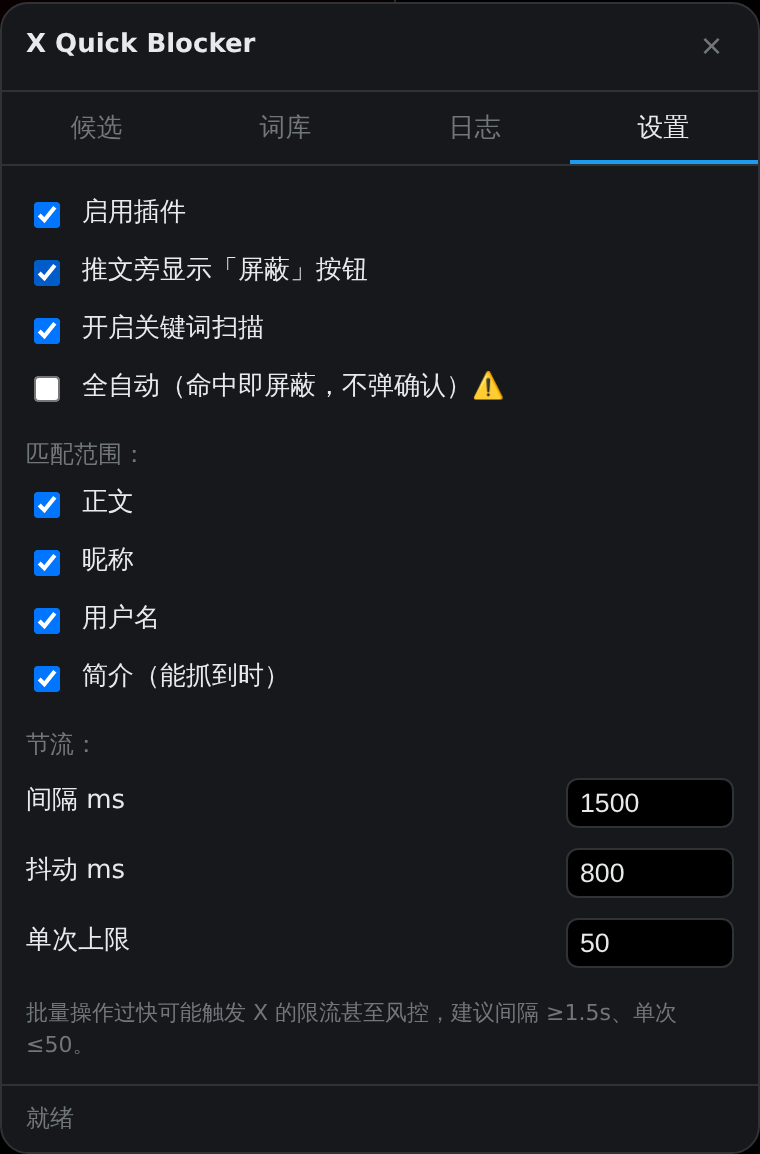
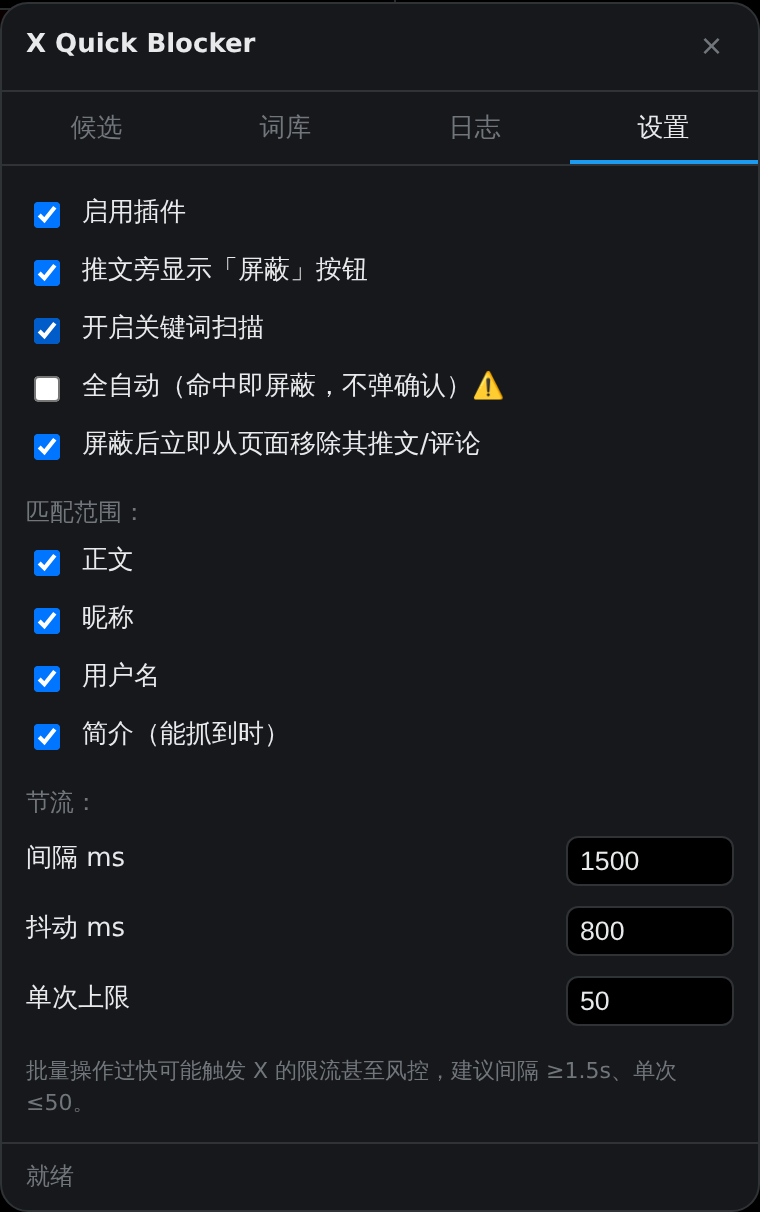
fix: 批量只成功一个；屏蔽后立即移除该作者的推文/评论
三个问题：

1. runBatch 没有 finally。循环体里任何一处抛错（包括面板刷新）都会让
   running 永久停在 true，之后再点「屏蔽已勾选」直接 return —— 表现就是
   「只成功一个，然后再也点不动」。现在整个循环包在 try/finally 里，
   running / setRunUI 一定会复位；面板刷新单独 try/catch，不中断批量。

2. 限流分支 continue 到了下一个账号，被 429 的那个既没屏蔽也没计入失败，
   静默丢失。改为对当前账号指数退避重试（最多 3 次），仍失败才计入 fail。

3. 屏蔽成功后不移除 DOM。X 不会刷新已渲染的节点，评论区尤其明显，
   用户无法判断是否屏蔽成功。新增 removeByHandle()：单条按钮和批量成功后
   都立即移除该作者的推文/评论（优先移除外层 cellInnerDiv，避免留空壳），
   scanAll 里再兜一次，处理虚拟列表回收复用把节点渲染回来的情况。
   新增配置项 removeBlockedDom（默认开），设置页可关。

另外 callBlock 失败时带上响应体片段和 console.warn，只剩一个状态码没法排查。

回归验证（smoke/regress.mjs）：单条屏蔽后 DOM 4→3；批量序列显示 429 的账号
被重试而非跳过；403 计入失败并在状态栏显示原因；批量结束后按钮正常解禁。

版本 0.1.3 → 0.1.4

Claude-Session: https://claude.ai/code/session_015zcd6DUqSjjwxXHhqpBqkB

diff --git a/src/content.js b/src/content.js
@@ -20,6 +20,7 @@
     minDelayMs: 1500,            // 每次屏蔽之间的间隔
     jitterMs: 800,
     maxPerRun: 50,               // 单次批量上限
+    removeBlockedDom: true,      // 屏蔽成功后把该作者的推文/评论从当前页面移除
     logLimit: 500,
   };
 
@@ -199,11 +200,16 @@
     if (res.status === 429) throw new RateLimited('触发接口限流（429）');
     const txt = await res.text();
     if (!res.ok) {
-      let msg = `${res.status}`;
+      let msg = `HTTP ${res.status}`;
       try {
         const j = JSON.parse(txt);
         if (j.errors && j.errors[0]) msg = `${j.errors[0].code || res.status}: ${j.errors[0].message}`;
-      } catch (e) {}
+      } catch (e) {
+        // 不是 JSON（可能是 HTML 错误页）：带上片段，否则只剩状态码没法排查
+        const snip = String(txt || '').replace(/\s+/g, ' ').slice(0, 120);
+        if (snip) msg += ` — ${snip}`;
+      }
+      console.warn('[xqb] blocks 接口失败', res.status, body, String(txt || '').slice(0, 300));
       throw new Error(msg);
     }
     return true;
@@ -313,7 +319,15 @@
         b.classList.add('xqb-done');
         blockedThisSession.add(info.handle.toLowerCase());
         pushLog({ handle: info.handle, name: info.name, reason: '手动', ok: true, url: info.url });
-        toast(`已屏蔽 @${info.handle}`);
+        candidates.delete(info.handle.toLowerCase());
+        renderCandidates();
+        updateBadge();
+        if (cfg.removeBlockedDom) {
+          const n = removeByHandle(info.handle);
+          toast(`已屏蔽 @${info.handle}${n > 1 ? `，移除 ${n} 条` : ''}`);
+        } else {
+          toast(`已屏蔽 @${info.handle}`);
+        }
       } catch (err) {
         b.textContent = '失败';
         b.classList.add('xqb-fail');
@@ -361,7 +375,31 @@
     }
   }
 
+  // 屏蔽成功后把该作者在当前页面上的所有推文/评论移除。
+  // X 不会自己刷新已渲染的节点，评论区尤其明显——留在那里没法判断到底成没成。
+  // 优先移除外层的 cellInnerDiv，否则会留下一个空壳占位。
+  function removeByHandle(handle) {
+    const key = String(handle || '').toLowerCase();
+    if (!key) return 0;
+    let n = 0;
+    document.querySelectorAll('article[data-testid="tweet"]').forEach((a) => {
+      let hk = (a.dataset.xqbHandle || '').toLowerCase();
+      if (!hk) {
+        try { hk = (tweetInfo(a).handle || '').toLowerCase(); } catch (e) {}
+      }
+      if (hk !== key) return;
+      const node = a.closest('[data-testid="cellInnerDiv"]') || a;
+      node.remove();
+      n++;
+    });
+    return n;
+  }
+
   function scanAll() {
+    // 已屏蔽的账号如果被 X 重新渲染回来（切 Tab、虚拟列表回收复用），再清一次
+    if (cfg.removeBlockedDom && blockedThisSession.size) {
+      for (const hk of blockedThisSession) removeByHandle(hk);
+    }
     document.querySelectorAll('article[data-testid="tweet"]').forEach(decorate);
   }
 
@@ -378,39 +416,69 @@
     running = true;
     stopFlag = false;
     let backoff = 0;
-    let done = 0, fail = 0;
+    let done = 0, fail = 0, lastErr = '';
     setRunUI(true);
-    for (const c of list) {
-      if (stopFlag) break;
-      if (done + fail >= cfg.maxPerRun) { toast(`已达单次上限 ${cfg.maxPerRun}，停止`); break; }
-      try {
-        await blockUser(c.handle);
-        done++;
-        blockedThisSession.add(c.handle.toLowerCase());
-        candidates.delete(c.handle.toLowerCase());
-        pushLog({ handle: c.handle, name: c.name, reason: c.hit ? `命中「${c.hit}」` : '批量', ok: true, url: c.url });
-        backoff = 0;
-      } catch (err) {
-        if (err instanceof RateLimited) {
-          backoff = backoff ? Math.min(backoff * 2, 15 * 60_000) : 60_000;
-          toast(`触发限流，暂停 ${Math.round(backoff / 1000)}s 后继续`, true);
-          setStatus(`限流退避中… ${Math.round(backoff / 1000)}s`);
-          await sleep(backoff);
+    // 整个循环包在 try/finally 里。原来没有 finally：循环体里任何一处抛错
+    // （包括面板刷新）都会让 running 永久停在 true，之后再点按钮直接 return，
+    // 表现就是「只成功一个，然后再也点不动」。
+    try {
+      for (let i = 0; i < list.length; i++) {
+        const c = list[i];
+        if (stopFlag) break;
+        if (done + fail >= cfg.maxPerRun) { toast(`已达单次上限 ${cfg.maxPerRun}，停止`); break; }
+
+        let rlRetry = 0;
+        for (;;) {
           if (stopFlag) break;
-          continue;
+          try {
+            await blockUser(c.handle);
+            done++;
+            backoff = 0;
+            blockedThisSession.add(c.handle.toLowerCase());
+            candidates.delete(c.handle.toLowerCase());
+            if (cfg.removeBlockedDom) removeByHandle(c.handle);
+            pushLog({ handle: c.handle, name: c.name, reason: c.hit ? `命中「${c.hit}」` : '批量', ok: true, url: c.url });
+            break;
+          } catch (err) {
+            // 限流：重试「当前这个」，最多 3 次。原实现是 continue 到下一个，
+            // 被限流的账号既没屏蔽也没计入失败，静默丢失。
+            if (err instanceof RateLimited && rlRetry < 3) {
+              rlRetry++;
+              backoff = backoff ? Math.min(backoff * 2, 15 * 60_000) : 60_000;
+              toast(`触发限流，暂停 ${Math.round(backoff / 1000)}s 后重试 @${c.handle}`, true);
+              setStatus(`限流退避中… ${Math.round(backoff / 1000)}s（第 ${rlRetry} 次重试 @${c.handle}）`);
+              await sleep(backoff);
+              continue;
+            }
+            fail++;
+            lastErr = friendly(err);
+            console.warn('[xqb] 屏蔽失败', c.handle, err);
+            pushLog({ handle: c.handle, name: c.name, reason: '批量', ok: false, err: lastErr });
+            break;
+          }
         }
-        fail++;
-        pushLog({ handle: c.handle, name: c.name, reason: '批量', ok: false, err: friendly(err) });
+
+        // 面板刷新失败不能中断批量
+        try {
+          renderCandidates();
+          updateBadge();
+          setStatus(`进行中：成功 ${done} / 失败 ${fail} / 剩 ${Math.max(0, list.length - done - fail)}` +
+            (lastErr ? `｜最近失败：${lastErr}` : ''));
+        } catch (e) {
+          console.warn('[xqb] 面板刷新出错（不影响批量）', e);
+        }
+
+        if (i < list.length - 1 && !stopFlag) {
+          await sleep(cfg.minDelayMs + Math.random() * cfg.jitterMs);
+        }
       }
-      renderCandidates();
-      updateBadge();
-      setStatus(`进行中：成功 ${done} / 失败 ${fail} / 剩 ${Math.max(0, list.length - done - fail)}`);
-      await sleep(cfg.minDelayMs + Math.random() * cfg.jitterMs);
+    } finally {
+      running = false;
+      setRunUI(false);
+      const tail = fail && lastErr ? `｜最近失败：${lastErr}` : '';
+      setStatus(`完成：成功 ${done}，失败 ${fail}${tail}`);
+      toast(`批量结束：成功 ${done}，失败 ${fail}`);
     }
-    running = false;
-    setRunUI(false);
-    setStatus(`完成：成功 ${done}，失败 ${fail}`);
-    toast(`批量结束：成功 ${done}，失败 ${fail}`);
   }
 
   let autoTimer = null;
@@ -611,6 +679,7 @@
       toggle('推文旁显示「屏蔽」按钮', 'showInlineButton', () => location.reload()),
       toggle('开启关键词扫描', 'scanEnabled', () => { candidates.clear(); renderCandidates(); scanAll(); }),
       toggle('全自动（命中即屏蔽，不弹确认）⚠', 'autoBlock'),
+      toggle('屏蔽后立即从页面移除其推文/评论', 'removeBlockedDom'),
       h('div', { class: 'xqb-sub' }, '匹配范围：'),
       toggle('正文', 'matchText'), toggle('昵称', 'matchName'),
       toggle('用户名', 'matchHandle'), toggle('简介（能抓到时）', 'matchBio'),

diff --git a/README.md b/README.md
@@ -63,6 +63,8 @@
 
 默认间隔 1500ms + 最多 800ms 随机抖动、单次上限 50。**不建议调到 1s 以下**——屏蔽接口有频次限制，太快会 429（触发后插件会自动退避重试），极端情况下账号可能被要求验证。
 
+屏蔽成功后，该账号在当前页面上的推文和评论会立即从 DOM 里移除——X 自己不会刷新已渲染的节点，评论区尤其明显，不移除的话根本看不出到底屏蔽成没成。不想要这个行为可以在设置里关掉。
+
 「全自动」开关默认关闭。打开后命中即屏蔽、不弹确认，误伤风险显著升高，建议先用半自动跑几天、把词库调准了再考虑。
 
 ### 5. 查看日志 / 撤销
@@ -87,6 +89,7 @@
 ## 风险与注意
 
 - **这是私有接口，不是公开 API。** X 改版可能随时失效，届时需要改 `src/content.js` 里的 endpoint / header。
+- **屏蔽接口有频次限制。** 触发 429 后插件会对**当前这个账号**指数退避重试（最多 3 次），不会跳过它。
 - **批量操作有风控风险。** 屏蔽接口有频次限制，短时间大量调用会 429，极端情况下账号可能被要求验证或临时限制。默认参数已经比较保守，别为了快去调它。
 - 自动化账号操作在 X 的自动化规则下属于灰区。自用、低频、针对骚扰和营销内容，风险较低；大规模使用请自行权衡。
 - 关键词误伤很常见，**强烈建议保持半自动模式**（默认），执行前扫一眼候选列表。
